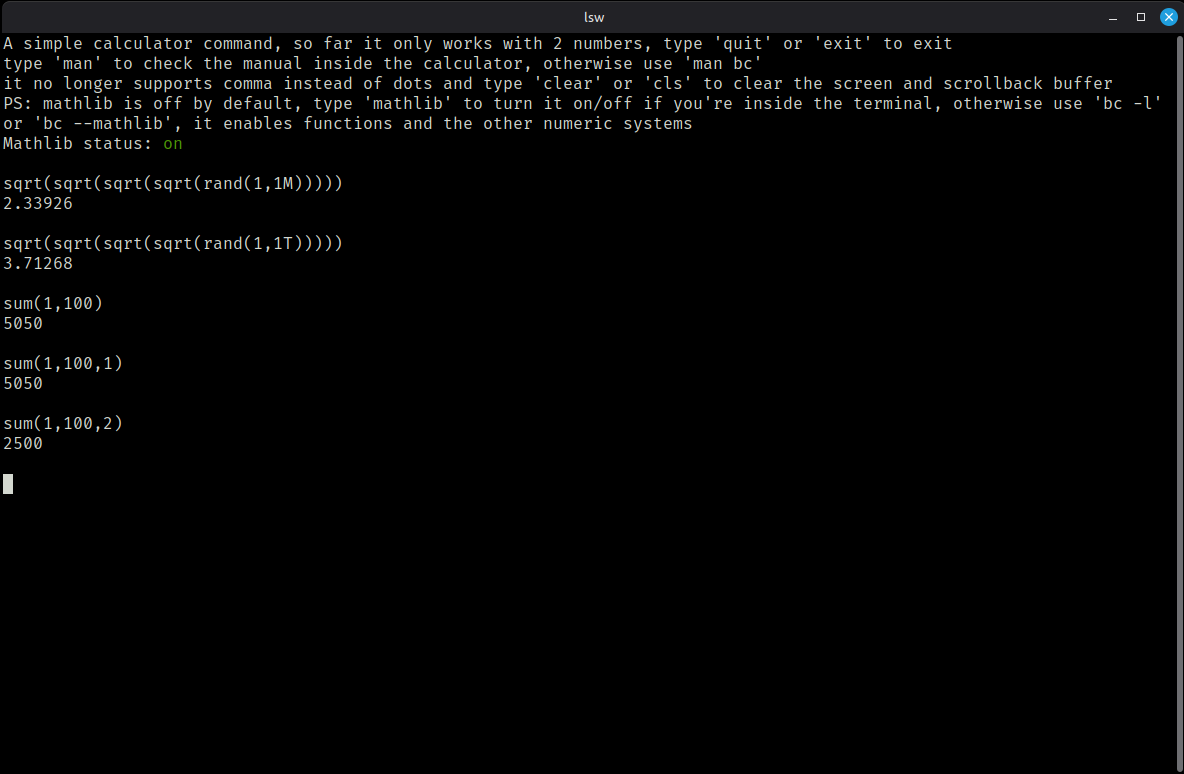
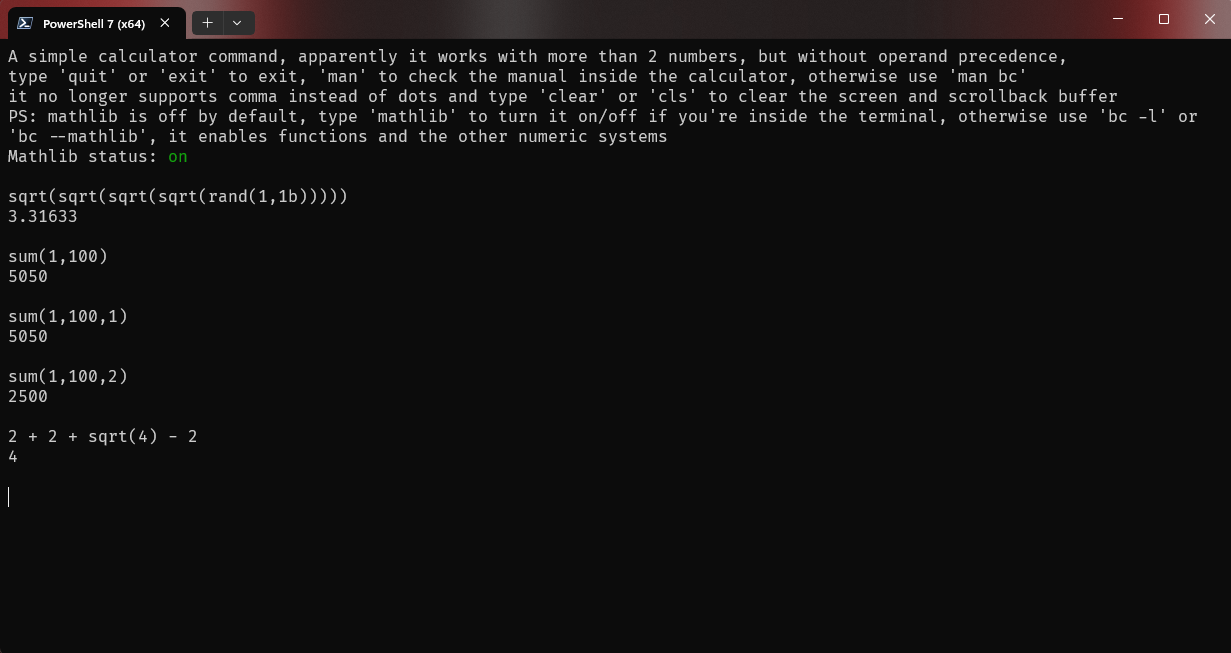
made a few optimizations and replaced the screenshot

Changed region(s): [[0.0, 0.0, 1.0, 1.0], [0.0, 0.4594, 0.0938, 0.6738], [0.0625, 0.6432, 0.125, 0.6738]]

diff --git a/libs/terminal.c b/libs/terminal.c
@@ -1,7 +1,7 @@
 #define _GNU_SOURCE
 #include "utils.h"
 
-#define VERSION "r1.5.7"
+#define VERSION "r1.5.73"
 
 #ifdef _WIN32
     #define SYSTEM "Windows"
@@ -109,7 +109,7 @@ void revCmd(char *instruction) {
             }
 
 
-            char line[0x400];
+            char line[MAX_CHAR];
 
             FILE *dest = fopen(destFile, "w");
             if (!dest) {
@@ -152,7 +152,7 @@ void revCmd(char *instruction) {
                 return;
             }
 
-            char line[0x400];
+            char line[MAX_CHAR];
 
             while (fgets(line, MAX_CHAR, source)) {
                 trim(line);
@@ -278,7 +278,7 @@ void sleepCmd(char *instruction) {
 }
 
 int32_t lcCmd(char *instruction) {
-    char buffer[0x400];
+    char buffer[MAX_CHAR];
     strncpy(buffer, instruction, sizeof(buffer));
     buffer[sizeof(buffer)-1] = '\0';
 
@@ -429,7 +429,7 @@ void renameCmd(char *instruction) {
 }
 
 void manCmdMulti(char *instruction, const char **cmds, uint8_t isInsideBash) {
-    char buffer[0x400];
+    char buffer[MAX_CHAR];
     strncpy(buffer, instruction, sizeof(buffer));
     buffer[sizeof(buffer)-1] = '\0';
 
@@ -649,7 +649,7 @@ void bcCmd(uint16_t argc, char **argv, const char **cmds) {
 
 void grepCmd(char *instruction) {
 
-    char buffer[0x400];
+    char buffer[MAX_CHAR];
     strncpy(buffer, instruction, sizeof(buffer));
     buffer[sizeof(buffer)-1] = '\0';
 
@@ -824,7 +824,7 @@ void historyCmd(char *operation, const char *path) {
 
         uint16_t i = 1;
 
-        char buff[0x400];
+        char buff[MAX_CHAR];
 
         while (i <= num) {
             if (!fgets(buff, sizeof(buff), f)) 
@@ -1107,7 +1107,7 @@ void tailCmd(char *instruction, uint32_t max_lines) {
         return;
     }
 
-    char path[0x400];
+    char path[MAX_CHAR];
     strncpy(path, instruction, sizeof(path) - 1);
     path[sizeof(path) - 1] = '\0';
 
@@ -1197,7 +1197,7 @@ void rmdirCmd(char *instruction) {
         while (*args == ' ') args++;
     }
 
-    char buffer[0x400];
+    char buffer[MAX_CHAR];
     strncpy(buffer, args, sizeof(buffer));
     buffer[sizeof(buffer)-1] = '\0';
 
@@ -1240,7 +1240,7 @@ void rmdirCmd(char *instruction) {
 
 void mkdirCmd(char *command) {
     
-    char buffer[0x400];
+    char buffer[MAX_CHAR];
     strncpy(buffer, command, sizeof(buffer));
     buffer[sizeof(buffer)-1] = '\0';
 
@@ -1598,7 +1598,8 @@ void updatehistory(void) {
         "r1.5.46 - small changes\n\tEdited: improved eval()\n",
         "r1.5.53 - small changes\n\tEdited: improved calculator strlen() once again\n",
         "r1.5.59 - minor changes\n\tFixed: forgot to add variable checking in some places\n",
-        "r1.5.7 - big changes\n\tAdded: now apparently the calculator works with more than 2 numbers, but without operand precedence\n"
+        "r1.5.7 - big changes\n\tAdded: now apparently the calculator works with more than 2 numbers, but without operand precedence\n",
+        "r1.5.73 - minor changes\n\tEdited: just a few optimizations\n"
     };
 
     uint16_t logCount = sizeof(logs) / sizeof(logs[0]);

diff --git a/libs/s_math.h b/libs/s_math.h
@@ -14,6 +14,9 @@
 #define KM_TO_MI_FACTOR 0.62137
 #define MI_TO_KM_FACTOR 1.609344
 
+#define DEG_TO_RAD_FACTOR 0.01745329251
+#define RAD_TO_DEG_FACTOR 57.2957795131
+
 #define BC_ERROR "__LSW__CALC__ERROR__"
 
 #ifdef _WIN32
@@ -66,8 +69,8 @@ uint16_t count_top_level_commas(const char *s)__attribute__((nonnull));
 double s_fabs_or_abs(char *operation, bool enable_single_point)__attribute__((nonnull));
 char *functionHandler(char *operation, const char *function)__attribute__((warn_unused_result));
 
-#define DEG_TO_RAD(x) ((x) * (PI) / 180.0) 
-#define RAD_TO_DEG(x) ((x) * 180.0 / (PI))
+#define DEG_TO_RAD(x) ((x) * DEG_TO_RAD_FACTOR) 
+#define RAD_TO_DEG(x) ((x) * RAD_TO_DEG_FACTOR)
 
 #define KM_TO_MI(x) ((x) * KM_TO_MI_FACTOR)
 #define MI_TO_KM(x) ((x) * MI_TO_KM_FACTOR)

diff --git a/libs/CheckCmd.c b/libs/CheckCmd.c
@@ -103,7 +103,7 @@ void checkLswrcSyntax(char *data_folder) {
     if (!f)
         return;
     
-    char line[0x400];
+    char line[MAX_CHAR];
     while (fgets(line, sizeof(line), f)) {
         line[strcspn(line, "\n")] = '\0';
         char *lineCpy = strdup(line);
@@ -722,7 +722,7 @@ void manCmd(char *instruction, const char **cmds, uint8_t isInsideBash) {
         "\n"
         "\tOctal: (prefix: '0o')         base 8 numbers e.g. 0o2000 = 1024\n"
         "\n"
-        "\tHexadecimal: (prefix: '0x')   base 16 numbers e.g. 0x400 = 1024\n"
+        "\tHexadecimal: (prefix: '0x')   base 16 numbers e.g. MAX_CHAR = 1024\n"
         );
 
 

diff --git a/main.c b/main.c
@@ -36,11 +36,11 @@ int main(int argc, char **argv) {
 
     char *address = get_default_address();
 
-    char *program_root = calloc(0x400, sizeof(char));
-    char *data_folder = calloc(0x400, sizeof(char));
+    char *program_root = calloc(MAX_CHAR, sizeof(char));
+    char *data_folder = calloc(MAX_CHAR, sizeof(char));
     char *history_path = calloc(0x4B0, sizeof(char));
 
-    GetProjDir(program_root, 0x400, data_folder, 0x400, history_path, 0x4B0);
+    GetProjDir(program_root, MAX_CHAR, data_folder, MAX_CHAR, history_path, 0x4B0);
 
     
     if (argc > 1) {

diff --git a/libs/utils.c b/libs/utils.c
@@ -2,7 +2,7 @@
 #include "utils.h"
 
 #define PROJ_LINES_APPROX 7600
-#define PROJ_SIZE_APPROX_BYTES 222000
+#define PROJ_SIZE_APPROX_BYTES 222500
 
 #define ALIAS_FILE "lswrc.txt"
 
@@ -54,7 +54,7 @@ bool isKeyRepeated(char *data_folder, const char *key_name) {
     if (!f)
         return false;
 
-    char buffer[0x400];
+    char buffer[MAX_CHAR];
     while (fgets(buffer, sizeof(buffer), f)) {
         buffer[strcspn(buffer, "\n")] = '\0';
         removeComments(buffer);

diff --git a/libs/utils.h b/libs/utils.h
@@ -38,7 +38,7 @@
 #endif
 
 #define MAX_ARGS 0x20
-#define MAX_CHAR (1ULL << 10)
+#define MAX_CHAR 0x400
 #define TIME_FMT "%a %d %b %Y %H:%M:%S %z"
 #define U32_NAN ((uint32_t)(UINT32_MAX - 1u))
 #define MAX_SAFE_INT64_D  9223372036854775807.0
